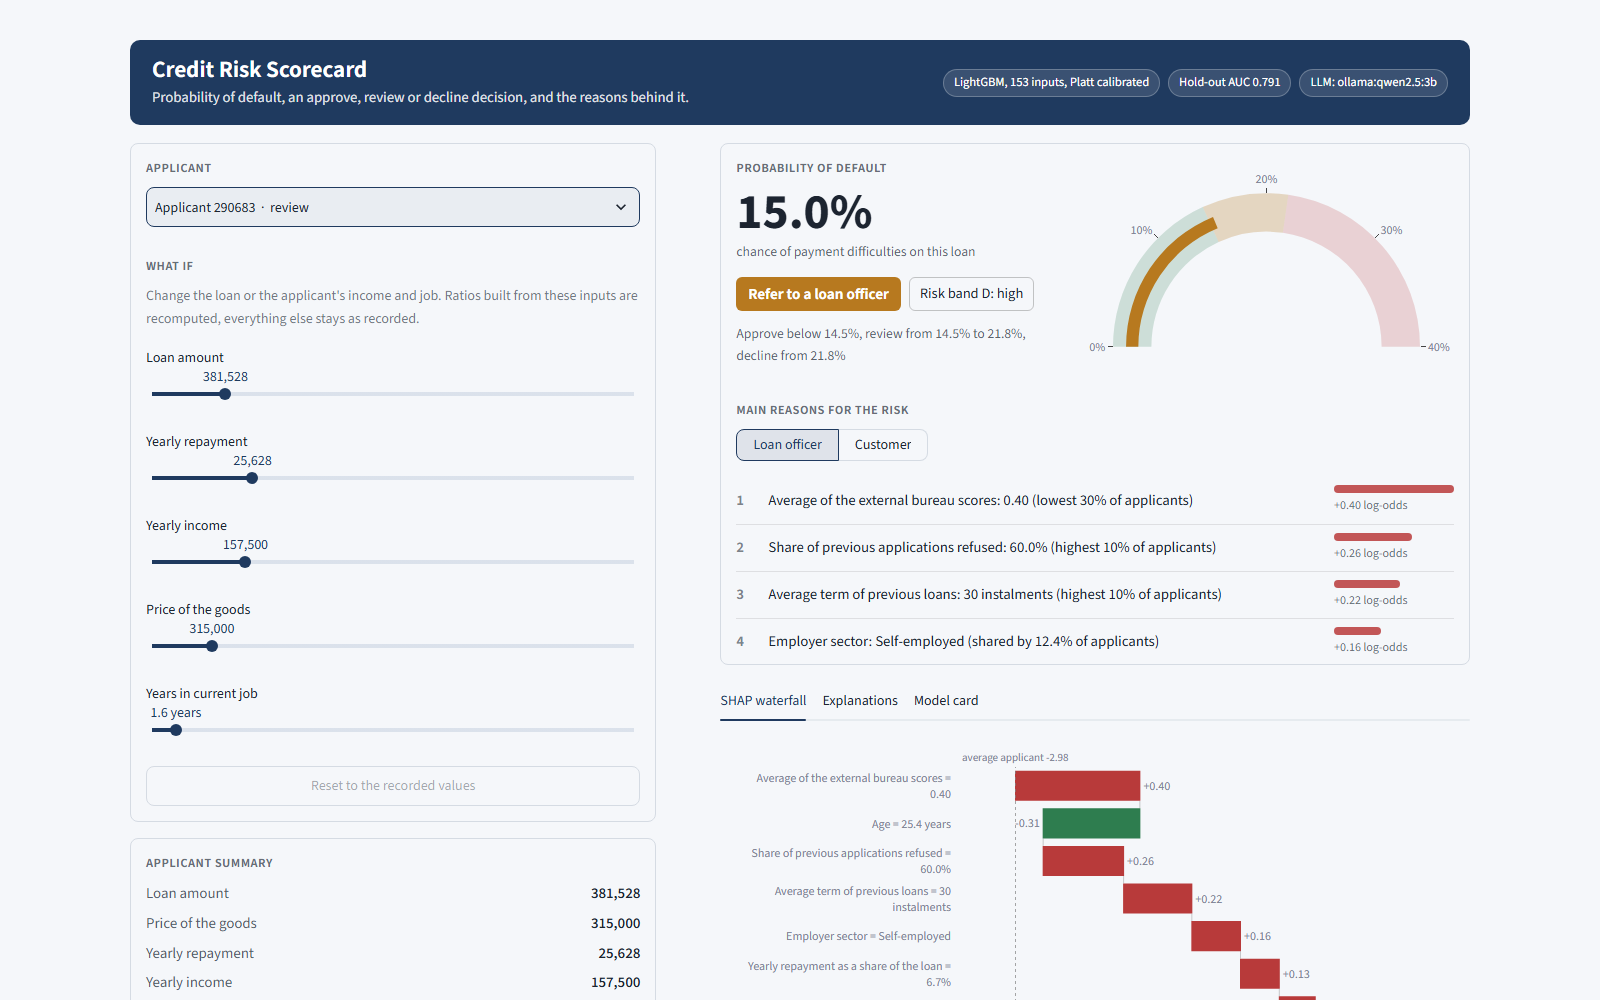
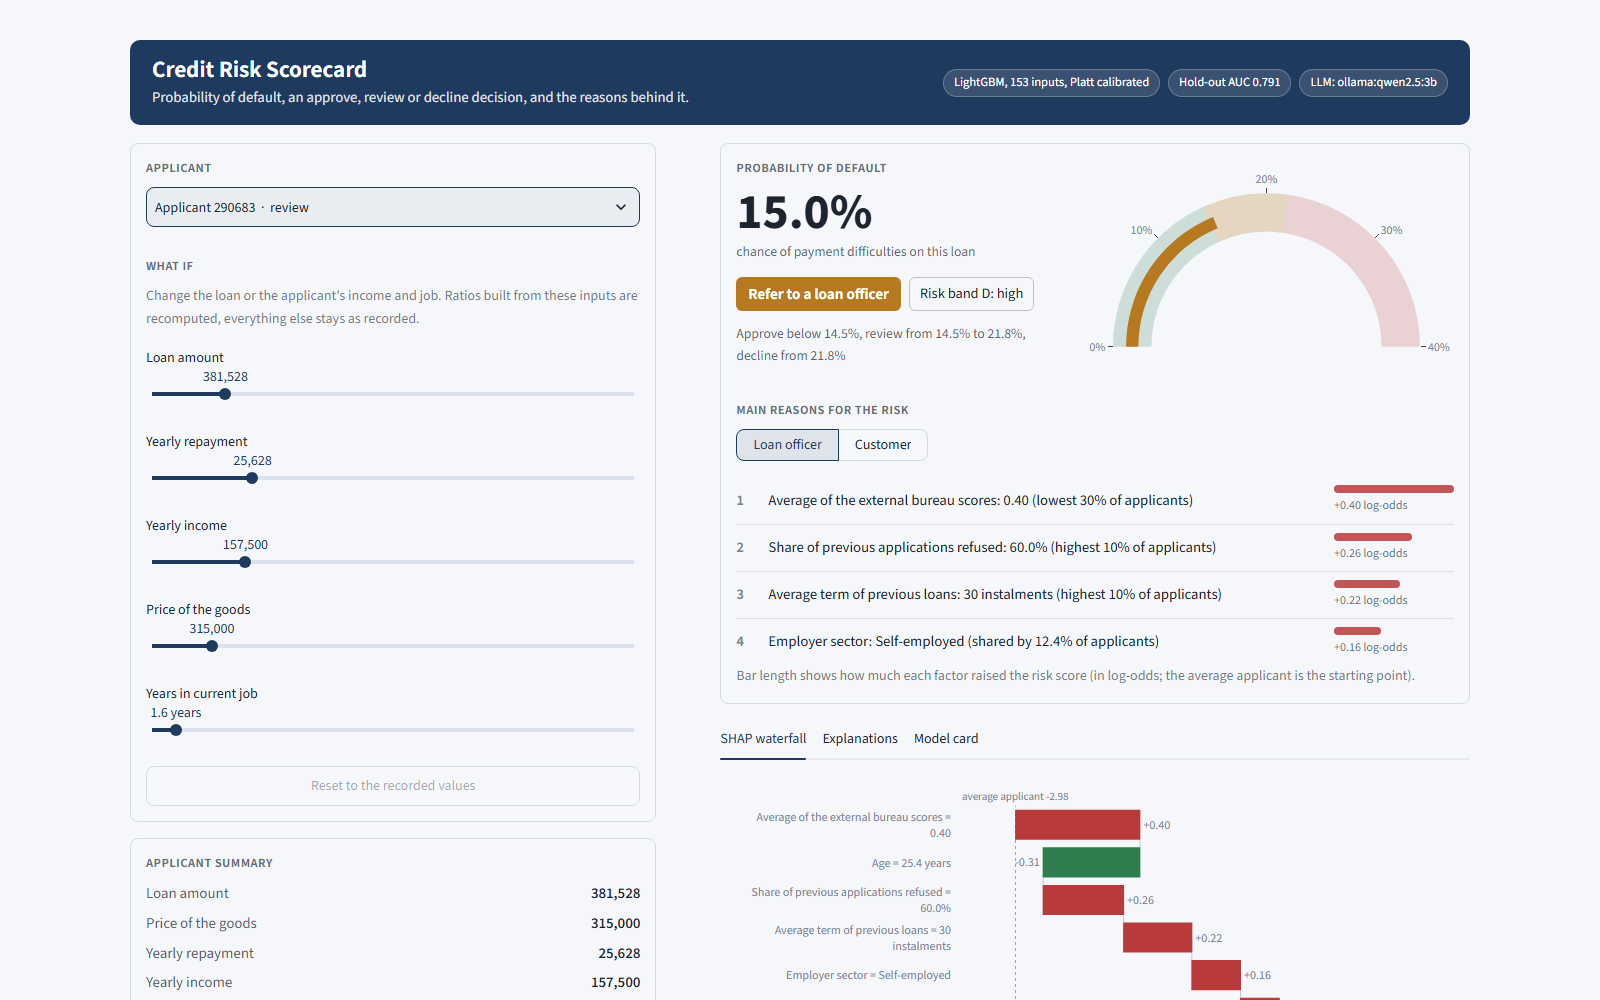
Added captions explaining the reason code bars and the waterfall starting value, and retook the screenshot

Changed region(s): [[0.4688, 0.744, 0.8438, 1.0], [0.4375, 0.651, 0.875, 0.744]]

diff --git a/app/streamlit_app.py b/app/streamlit_app.py
@@ -336,6 +336,8 @@ with right:
                                         label_visibility="collapsed") or "Loan officer"
         key = "reasons_officer" if audience == "Loan officer" else "reasons_customer"
         st.markdown(reasons_html(result[key]), unsafe_allow_html=True)
+        st.caption("Bar length shows how much each factor raised the risk score (in log-odds; the average "
+                   "applicant is the starting point).")
         if audience == "Customer":
             st.caption("The customer's list leaves out officer-only inputs (age, location, contact and document "
                        "details) and shows bureau scores only as a percentile.")
@@ -345,6 +347,8 @@ with right:
     with tab_shap:
         st.plotly_chart(waterfall(result, row, service.explainer.coder), width="stretch",
                         config={"displayModeBar": False}, theme="streamlit")
+        st.caption(f"The bars start at {result['base_value']:.2f}, the log-odds of the average development "
+                   "applicant before calibration, and end at this applicant's own log-odds.")
         st.caption("Each bar is one input's SHAP value: how far it moves this applicant's log-odds from the "
                    "average applicant's. Red raises the risk, green lowers it. The PD above is these log-odds "
                    "after Platt calibration, which keeps the order.")
